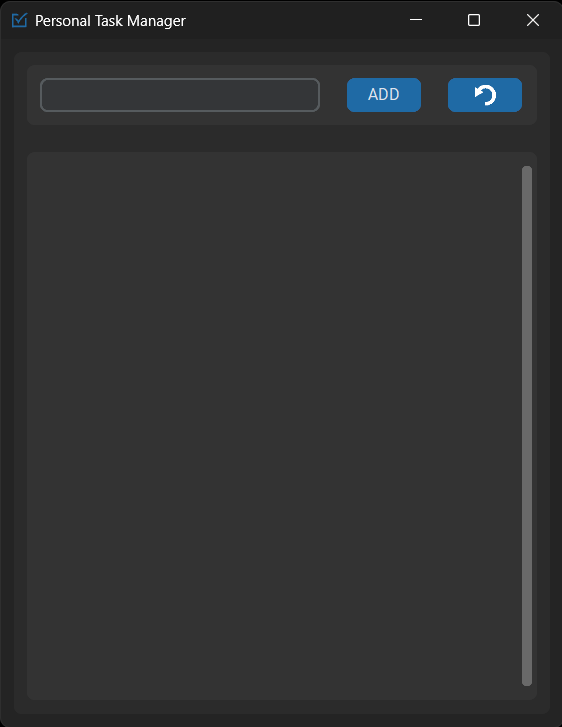
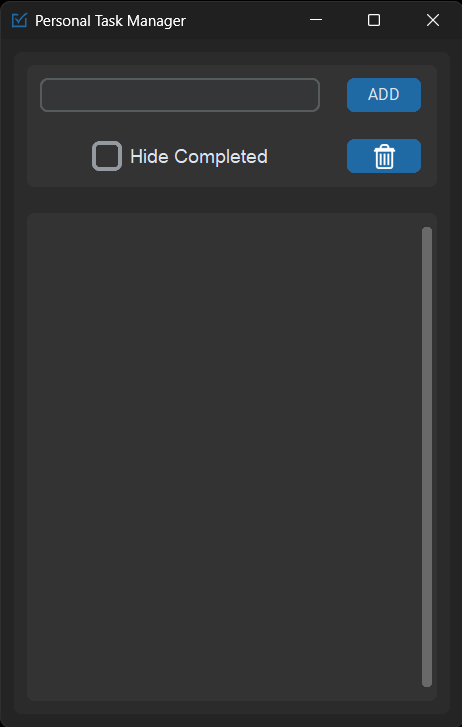
Total Rewrite
Changed the way the task items behave in UI and removed and added a few features.

diff --git a/main.py b/main.py
@@ -1,4 +1,4 @@
-# Importing necessary modules and libraries
+# Import necessary modules and libraries
 from customtkinter import (
     CTk,
     CTkFrame,
@@ -7,115 +7,91 @@ from customtkinter import (
     CTkEntry,
     CTkScrollableFrame,
     CTkImage,
+    CTkToplevel,
+    CTkLabel,
 )
+from tkinter import END, IntVar
 from PIL import Image
-from tkinter import END
 import pymysql
-
 
 # Database connection credentials
 sqlCred = {
     "host": "localhost",
-    "user": "username",
-    "password": "password",
+    "user": "python",
+    "password": "python",
     "database": None,
-    "port": 3306,
+    "port": 9999,
 }
 
+# Class for managing tasks
+class TaskManager:
+    def __init__(self, masterFrame: CTkScrollableFrame):
+        # Dictionary to store task information
+        self.taskList = dict()
+        self.master = masterFrame
+        self.hideCompleted = False
 
-# Class for managing a stack of completed tasks
-class TaskStack:
-    def __init__(self):
-        self.stack = []
-
-    def push(self, taskString, isInitializing=False):
-        # Marks a task as completed in the database
-        if not isInitializing:
-            cursor.execute(
-                "UPDATE taskTable SET status=1 WHERE taskString=%s", (taskString)
-            )
-        undoButton.configure(state="normal")
-        self.stack.append(taskString)
-
-    def pop(self) -> str:
-        # Marks the most recently completed task as incomplete in the database
-        taskString = self.stack.pop()
-        if not self.stack:
-            undoButton.configure(state="disabled")
-
-        cursor.execute(
-            "UPDATE taskTable SET status=0 WHERE taskString=%s", (taskString)
-        )
-        return taskString
-
-# Instance of TaskStack for completed tasks
-completedTasks = TaskStack()
-
-# Class for managing the list of tasks displayed in the UI
-class TaskList:
-    def __init__(self, master: CTkFrame):
-        self.master = master
-        self.taskItems = dict()
-
-    def append(self, taskInfo: str):
-        # Adds a new task to the list
-        if len(taskInfo) > 37:
+    def addTask(self, taskString: str, taskStatus: int = 0, initialize: bool = False):
+        # Create a task item based on the length of the task string
+        if not len(taskString.strip()):
+            return
+        deleteButton.configure(state="normal")
+        taskInput.delete(0, END)
+        if len(taskString) > 26:
             taskItem = CTkScrollableFrame(
                 master=self.master, orientation="horizontal", height=40
             )
         else:
             taskItem = CTkFrame(master=self.master)
 
-        taskCheck = CTkCheckBox(master=taskItem, text=taskInfo, font=("monospace", 15))
-        taskCheck.configure(command=lambda: self.remove(taskCheck.__hash__()))
+        # Create a checkbox for the task
+        taskCheck = CTkCheckBox(
+            master=taskItem,
+            text=taskString,
+            font=("monospace", 15),
+        )
+        # Store task information in the taskList dictionary
+        self.taskList[taskCheck.__hash__()] = [taskItem, taskCheck, taskString]
+
+        # Set up the checkbox variable and configure its command
+        checkbox_var = IntVar()
+        checkbox_var.set(taskStatus)
+        taskCheck.configure(
+            command=lambda: self.update(self.taskList[taskCheck.__hash__()]),
+            variable=checkbox_var,
+        )
+
+        # Configure the checkbox appearance and pack the task item
         taskCheck.anchor("w")
         taskCheck.grid(padx=10, pady=10)
+        taskItem.pack(padx=10, pady=10, fill="x")
 
-        self.taskItems[taskCheck.__hash__()] = [taskItem, taskInfo]
-        self.load()
+        # Insert the task into the database if not initializing
+        if not initialize:
+            cursor.execute("INSERT INTO taskTable VALUES (%s, 0);", (taskString))
+            displayDB()
 
-    def remove(self, taskItemHash):
-        # Removes a task and stores it in the completed task stack
-        taskItem = self.taskItems.pop(taskItemHash)
-        taskItem[0].destroy()
+    def update(self, taskItem):
+        # Update the task status in the database and display it
+        cursor.execute(
+            "UPDATE taskTable SET status=%s WHERE taskString=%s;",
+            (taskItem[1].get(), taskItem[2]),
+        )
+        displayDB()
+        # Hide or show the task based on completion status and hideCompleted flag
+        if self.hideCompleted and taskItem[1].get():
+            taskItem[0].forget()
+            if isinstance(taskItem[0], CTkScrollableFrame):
+                taskItem[0]._parent_frame.forget()
+        elif not self.hideCompleted:
+            taskItem[0].pack(padx=10, pady=10, fill="x")
 
-        if isinstance(taskItem[0], CTkScrollableFrame):
-            taskItem[0]._parent_frame.destroy()
+    def showOrHideCompleted(self, status: bool):
+        # Set the hideCompleted flag and update tasks accordingly
+        self.hideCompleted = status
+        for item in self.taskList.values():
+            self.update(item)
 
-        completedTasks.push(taskItem[1])
-        cursor.execute("SELECT * FROM taskTable;")
-        print(cursor.fetchall())
-
-    def load(self):
-        # Displays all the current tasks
-        taskItem: CTkFrame
-        for taskItem in self.taskItems.values():
-            taskItem[0].pack(padx=10, pady=10, fill="x")  # type: ignore
-        cursor.execute("SELECT * FROM taskTable;")
-        print(cursor.fetchall())
-
-# Function to add a task
-def addTask():
-    taskString = taskInput.get()
-    if taskString:
-        # Inserts a new task into the database and adds it to the task list
-        cursor.execute("INSERT INTO taskTable VALUES (%s, 0);", (taskString))
-        taskList.append(taskString)
-        taskInput.delete(0, END)
-
-# Function to toggle between showing completed and incomplete tasks
-def showCompletedTasks():
-    if showCompletedButton.cget("text") == "Show Completed":
-        showCompletedButton.configure(text="Show Incomplete")
-
-        for widget in taskManagerFrame.children.values():
-            widget.configure(state="disabled")  # type: ignore
-
-    else:
-        showCompletedButton.configure(text="Show Completed")
-
-        for widget in taskManagerFrame.children.values():
-            widget.configure(state="normal")  # type: ignore
 
 # Database Initialization
 with pymysql.connect(
@@ -142,8 +118,48 @@ cursor = connection.cursor()
 # Creating the taskTable if it doesn't exist
 cursor.execute("CREATE TABLE IF NOT EXISTS taskTable(taskString TEXT, status INTEGER);")
 
-# Function to close the database connection and exit the application
+def displayDB():
+    # Display tasks from the database
+    cursor.execute("SELECT * FROM taskTable;")
+    tableRows = cursor.fetchall()
+    print("=" * 50)
+    for row in tableRows:
+        print(row[0], ":", row[1])
+
+def proceedDeleting(option: str, warning: CTkToplevel):
+    if option == "delete":
+        deleteButton.configure(state="disabled")
+        cursor.execute("DELETE FROM taskTable;")
+        for taskItem in taskManager.taskList.values():
+            taskItem[0].destroy()
+            if isinstance(taskItem[0], CTkScrollableFrame):
+                taskItem[0]._parent_frame.destroy()
+        del taskManager.taskList
+        taskManager.taskList = dict()
+    warning.destroy()
+    app.update()
+
+def deleteData():
+    deleteWarning = CTkToplevel()
+    deleteWarning.resizable(False, False)
+    deleteWarning.grab_set()
+    warningLabel = CTkLabel(master=deleteWarning, text="⚠This will erase all data⚠")
+    warningLabel.grid(row=0, column=0, columnspan=2, padx=10, pady=10)
+    proceedButton = CTkButton(
+        master=deleteWarning,
+        text="Proceed",
+        command=lambda: proceedDeleting("delete", deleteWarning),
+    )
+    proceedButton.grid(row=1, column=0, padx=10, pady=10)
+    cancelButton = CTkButton(
+        master=deleteWarning,
+        text="Cancel",
+        command=lambda: proceedDeleting("cancel", deleteWarning),
+    )
+    cancelButton.grid(row=1, column=1, padx=10, pady=10)
+
 def close_connection():
+    # Close the database connection and exit the application
     cursor.close()
     connection.commit()
     connection.close()
@@ -152,8 +168,8 @@ def close_connection():
 # UI Definition
 app = CTk()
 app.title("Personal Task Manager")
-app.geometry("450x550")
-app.minsize(450, 550)
+app.geometry("370x550")
+app.minsize(370, 550)
 app.resizable(False, True)
 app.iconbitmap("./images/taskManagerIcon.ico")
 
@@ -169,47 +185,44 @@ taskManagerFrame.pack(padx=10, pady=10, fill="x")
 taskInput = CTkEntry(master=taskManagerFrame, width=225)
 taskInput.grid(row=0, column=0, padx=10, pady=10)
 
-# Button to add a task
-addTaskButton = CTkButton(
-    master=taskManagerFrame, text="ADD", width=60, command=addTask
-)
-addTaskButton.grid(row=0, column=1, padx=10, pady=10)
-
-# Undo button with undo icon
-undoIcon = Image.open("./images/undo.png")
-undoButton = CTkButton(
-    master=taskManagerFrame,
-    text=None,  # type: ignore
-    image=CTkImage(undoIcon),
-    width=60,
-    command=lambda: taskList.append(completedTasks.pop()),
-    state="disabled",
-)
-undoButton.grid(row=0, column=2, padx=10, pady=10)
-
 # Scrollable frame for displaying the list of tasks
 taskListFrame = CTkScrollableFrame(master=mainFrame)
 taskListFrame.pack(padx=10, pady=10, expand=True, fill="both")
 
-# Button to toggle between showing completed and incomplete tasks
-showCompletedButton = CTkButton(
-    master=mainFrame, text="Show Completed", command=showCompletedTasks
+# Initialize the task manager
+taskManager = TaskManager(taskListFrame)
+
+# Button to add a task
+addTaskButton = CTkButton(
+    master=taskManagerFrame,
+    text="ADD",
+    width=60,
+    command=lambda: taskManager.addTask(taskInput.get()),
 )
+addTaskButton.grid(row=0, column=1, padx=10, pady=10)
 
-taskList = TaskList(taskListFrame)  # type: ignore
+# Button to toggle between hiding and showing tasks
+hideCompletedCheck = CTkCheckBox(
+    master=taskManagerFrame, text="Hide Completed", font=("monospace", 15)
+)
+hideCompletedCheck.configure(
+    command=lambda: taskManager.showOrHideCompleted(hideCompletedCheck.get())
+)
+hideCompletedCheck.grid(row=1, column=0, padx=10, pady=10)
 
-# Add tasks to taskStack and taskList
-cursor.execute("SELECT taskString FROM taskTable WHERE status=0")
-incompleteTaskList = cursor.fetchall()
-if incompleteTaskList:
-    for taskString in incompleteTaskList:
-        taskList.append(taskString[0])
+deleteButton = CTkButton(
+    master=taskManagerFrame,
+    text=None,
+    width=60,
+    image=CTkImage(Image.open("./images/bin.png")),
+    command=deleteData,
+)
+deleteButton.grid(row=1, column=1, padx=10, pady=10)
 
-cursor.execute("SELECT taskString FROM taskTable WHERE status=1")
-completedTaskList = cursor.fetchall()
-if completedTaskList:
-    for taskString in completedTaskList:
-        completedTasks.push(taskString[0], True)
+# Populate the task manager with tasks from the database
+cursor.execute("SELECT * FROM taskTable;")
+for row in cursor.fetchall():
+    taskManager.addTask(row[0], row[1], True)
 
 # Application close protocol
 app.protocol("WM_DELETE_WINDOW", close_connection)

diff --git a/README.md b/README.md
@@ -1,13 +1,15 @@
 # Personal Task Manager
 
-The Personal Task Manager is a simple task management application developed in Python. It provides a graphical user interface (GUI) for users to manage their tasks by adding, completing, and undoing tasks.
+The Personal Task Manager is a Python-based task management application with a graphical user interface (GUI). It empowers users to effortlessly manage their tasks by adding, deleting, marking them as completed.
 
 ## Features
 
 - Add tasks to the task list.
 - Mark tasks as completed.
-- Undo completed tasks.
-- Database storage for persisting task information.
+- Toggle between hiding and showing completed tasks.
+- Delete all tasks and reset the application.
+
+Tasks are automatically saved to the database when added, marked as completed, or undone. The task list will reload from the database when the application is restarted.
 
 ## Table of Contents
 
@@ -60,9 +62,10 @@ The application uses the following Python libraries:
 
 The application provides a simple GUI for managing tasks:
 
-- Type a task description into the input field and click the Add button to add it to the list.
+- Type a task description into the input field and click the "ADD" button to add it to the list.
 - Click the checkbox next to a task to mark it as completed.
-- Click the Undo button to undo the last completed task.
+- Click the "Hide Completed" checkbox to toggle between hiding and showing completed tasks.
+- Click the trash can icon button to delete all tasks and reset the application.
 
 Tasks are automatically saved to the database when added, marked as completed, or undone. The task list will reload from the database when the application is restarted.
 
@@ -81,6 +84,11 @@ This project is licensed under the MIT License - see the [LICENSE](LICENSE.txt) 
 ## Screenshots
 
 <img src="screenshots/EmptyPage.png" width="300">
+
 <img src="screenshots/TaskListed.png" width="300">
 
+<img src="screenshots/CompletedTaskHidden.png" width="300">
+
 <img src="screenshots/LongVsShortDescription.png" width="300">
+
+<img src="screenshots/DeletionWarning.png" width="300">
